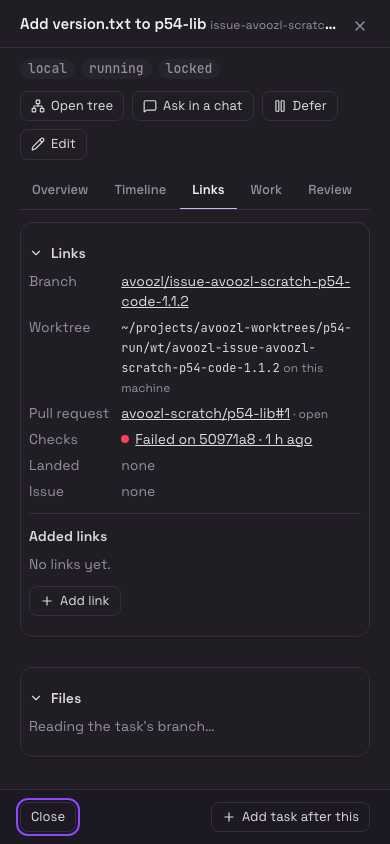
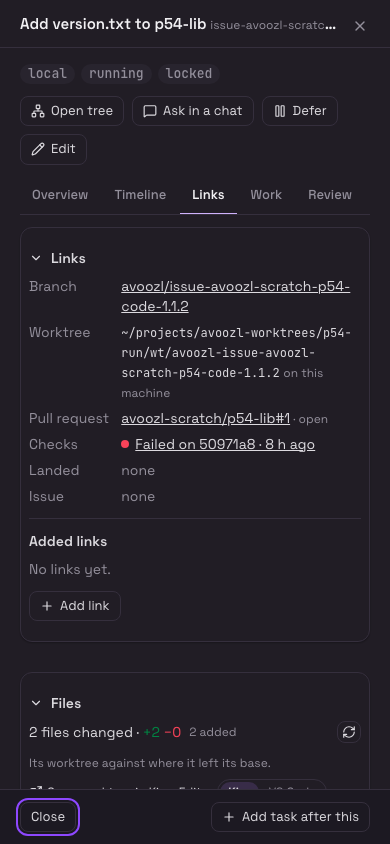
Reshoot P54's 390 Graph modal and tick avoozl-p54

diff --git a/docs/evidence/proof-p54.md b/docs/evidence/proof-p54.md
@@ -143,10 +143,24 @@ shows only in the local app (R92.10), and these files are public.
 | Graph modal (same task) | `graph-1280-light.png`, `graph-1280-dark.png`, `graph-390-light.png`, `graph-390-dark.png` |
 | Fork task's details › Links | `task-fork-1280-light.png` |
 
-Owner screenshot approval: **pending**.
+Owner screenshot approval: **approved** (relayed by the conductor, 2026-11-18).
+
+Follow-up, 2026-11-18: the first `graph-390-*.png` were byte copies of
+`task-held-390-*.png`. At 390 px the earlier task drawer was still open when
+O was pressed, so no Graph modal opened. They were reshot from a fresh page:
+the spec's Focus tree by its deep link, O on the `…-1.1.2` card, then the
+Links tab. The Graph page was behind the drawer, and no drawer was open
+before O. At 390 px the Graph opens the same task view as task details.
 
 ## Noted, not fixed
 
+- **Task Files box.** In the `task-held-*` and earlier Graph shots, the
+  task drawer's Files box still says "Reading the task's branch…". The shot
+  was taken about 2 seconds after the Links tab opened, before that read
+  came back. In the 390 Graph reshoot, taken later, the same box shows
+  "2 files changed · +2 −0". No wrong state, but the box gives no sign of
+  progress while it reads. Follow-up: show its age or a spinner, or have
+  shots wait for it.
 - **Spec panel layout.** In the spec panel's Links column at 1280, a
   two-digit PR number wraps one character per line (`#1` / `2`).
 - **Driver label.** The spec header says "Driver: nobody" for both specs,

diff --git a/.kiro/specs/avoozl/tasks.md b/.kiro/specs/avoozl/tasks.md
@@ -1682,7 +1682,7 @@ Screenshot approval remains owner work.
 - [x] 44.6 Radar back-links through intake and the journal, after 44.1, 56.11 [R92.8, R92.10] (§4.27)
   - Spec shows its Radar source issues. The intake status comment names the spec issue where visibility permits; the journal records the source issue as owner/repo#N under the privacy scan, so GitHub shows a cross-reference. Tests: a public Radar issue never names a private spec; no Radar API, grant or import; no new GitHub write.
 
-- [ ] avoozl-p54 P54 Proof: links and the landing queue on real GitHub, after 44.1, 44.2, 44.3, 44.4, 44.5, 44.6 [R92, R102.7, R102.12] (§4.27)
+- [x] avoozl-p54 P54 Proof: links and the landing queue on real GitHub, after 44.1, 44.2, 44.3, 44.4, 44.5, 44.6 [R92, R102.7, R102.12] (§4.27)
   - Setup: isolated scratch workspace with two registered targets, one PR from a fork, a spec created from a scratch Radar-style issue, one landed and one held task; no real workspace tick.
   - Action: open the spec details panel, a task's details and its Graph modal, In flight and the Landing queue at 390 and 1280 px, light and dark; follow each link; count GitHub calls before and after.
   - Expected: every link reaches the right GitHub item in a new tab; held items show the right reason; opening and refreshing the views adds zero calls; the scratch Radar issue shows the spec link only when the spec is public. Private spec references, host names, usernames and paths never render on a public surface.
